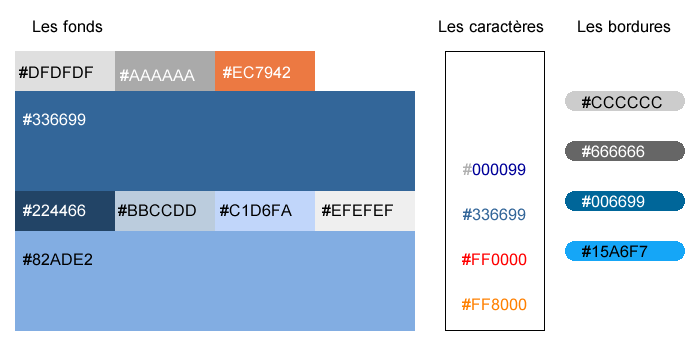
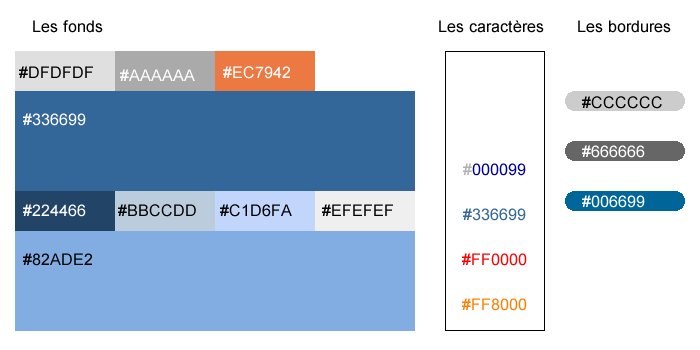
on rajoute le paramétrage des couleurs de bordure
git-svn-id: svn://zone.spip.org/spip-zone/_squelettes_@58697 ac52e18a-acf5-0310-9fe8-c4428f23b10a

Changed region(s): [[0.81, 0.6857, 0.99, 0.7429]]

diff --git a/escal/branche_V3/formulaires/configurer_couleurs.html b/escal/branche_V3/formulaires/configurer_couleurs.html
@@ -334,14 +334,98 @@
             if(isset($_POST["reinit"])) { $bord1="#CCCCCC"; }
             ?>
             <li class="editer editer_[(#GET{name})][ (#GET{obli})][ (#GET{erreurs}|oui)erreur]">
-                    <div class="explication"><strong>Bord 1</strong>:
+                    <div class="explication"><strong>Bord 1</strong>: items du menu horizontal
                     </div>
                     [<span class='erreur_message'>(#GET{erreurs})</span>
                     ]<div class="choix">
                              <input type="texte" class="palette" style="width: 130px" name="#GET{name}" id="#GET{name}_oui" value="<?php echo "$bord1"; ?>"  />
-                             <input type="submit" name="reinit25" class="submit" value="R&eacute;initialiser" />
-                             <span style="font-size: 20px; color:<?php echo "$bord1"; ?>">_____------</span>
-
+                             <input type="submit" name="reinit31" class="submit" value="R&eacute;initialiser" />
+                             <span style="font-size: 20px; color:<?php echo "$bord1"; ?>">&mdash;&mdash;&mdash;&mdash;&mdash;</span>
+                    </div>
+            </li>
+            
+            #SET{name,bord2}#SET{erreurs,#ENV**{erreurs}|table_valeur{#GET{name}}}
+            <?php
+            $bord2="[(#ENV{#GET{name}}|?{#ENV{#GET{name}},#CCCCCC})]";
+            if(isset($_POST["reinit32"])) { $bord1="#CCCCCC"; }
+            if(isset($_POST["reinit"])) { $bord1="#CCCCCC"; }
+            ?>
+            <li class="editer editer_[(#GET{name})][ (#GET{obli})][ (#GET{erreurs}|oui)erreur]">
+                    <div class="explication"><strong>Bord 2</strong>: pages article et rubrique, forums des articles, page contact, annuaire
+                    </div>
+                    [<span class='erreur_message'>(#GET{erreurs})</span>
+                    ]<div class="choix">
+                             <input type="texte" class="palette" style="width: 130px" name="#GET{name}" id="#GET{name}_oui" value="<?php echo "$bord2"; ?>"  />
+                             <input type="submit" name="reinit32" class="submit" value="R&eacute;initialiser" />
+                             <span style="font-size: 20px; color:<?php echo "$bord2"; ?>">&mdash;&mdash;&mdash;&mdash;&mdash;</span>
+                    </div>
+            </li>
+            
+            #SET{name,bord3}#SET{erreurs,#ENV**{erreurs}|table_valeur{#GET{name}}}
+            <?php
+            $bord3="[(#ENV{#GET{name}}|?{#ENV{#GET{name}},#000000})]";
+            if(isset($_POST["reinit33"])) { $bord1="#000000"; }
+            if(isset($_POST["reinit"])) { $bord1="#000000"; }
+            ?>
+            <li class="editer editer_[(#GET{name})][ (#GET{obli})][ (#GET{erreurs}|oui)erreur]">
+                    <div class="explication"><strong>Bord 3</strong>: tableaux
+                    </div>
+                    [<span class='erreur_message'>(#GET{erreurs})</span>
+                    ]<div class="choix">
+                             <input type="texte" class="palette" style="width: 130px" name="#GET{name}" id="#GET{name}_oui" value="<?php echo "$bord3"; ?>"  />
+                             <input type="submit" name="reinit33" class="submit" value="R&eacute;initialiser" />
+                             <span style="font-size: 20px; color:<?php echo "$bord3"; ?>">&mdash;&mdash;&mdash;&mdash;&mdash;</span>
+                    </div>
+            </li>
+            
+            #SET{name,bord4}#SET{erreurs,#ENV**{erreurs}|table_valeur{#GET{name}}}
+            <?php
+            $bord4="[(#ENV{#GET{name}}|?{#ENV{#GET{name}},#FFFFFF})]";
+            if(isset($_POST["reinit34"])) { $bord1="#FFFFFF"; }
+            if(isset($_POST["reinit"])) { $bord1="#FFFFFF"; }
+            ?>
+            <li class="editer editer_[(#GET{name})][ (#GET{obli})][ (#GET{erreurs}|oui)erreur]">
+                    <div class="explication"><strong>Bord 4</strong>: menu vertical d&eacute;roulant vers la droite
+                    </div>
+                    [<span class='erreur_message'>(#GET{erreurs})</span>
+                    ]<div class="choix">
+                             <input type="texte" class="palette" style="width: 130px" name="#GET{name}" id="#GET{name}_oui" value="<?php echo "$bord4"; ?>"  />
+                             <input type="submit" name="reinit34" class="submit" value="R&eacute;initialiser" />
+                             <span style="font-size: 20px; color:<?php echo "$bord4"; ?>">&mdash;&mdash;&mdash;&mdash;&mdash;</span>
+                    </div>
+            </li>
+            
+            #SET{name,bord5}#SET{erreurs,#ENV**{erreurs}|table_valeur{#GET{name}}}
+            <?php
+            $bord5="[(#ENV{#GET{name}}|?{#ENV{#GET{name}},#666666})]";
+            if(isset($_POST["reinit35"])) { $bord1="#666666"; }
+            if(isset($_POST["reinit"])) { $bord1="#666666"; }
+            ?>
+            <li class="editer editer_[(#GET{name})][ (#GET{obli})][ (#GET{erreurs}|oui)erreur]">
+                    <div class="explication"><strong>Bord 5</strong>: identification, items menu horizontal survol&eacute;, calendrier
+                    </div>
+                    [<span class='erreur_message'>(#GET{erreurs})</span>
+                    ]<div class="choix">
+                             <input type="texte" class="palette" style="width: 130px" name="#GET{name}" id="#GET{name}_oui" value="<?php echo "$bord5"; ?>"  />
+                             <input type="submit" name="reinit35" class="submit" value="R&eacute;initialiser" />
+                             <span style="font-size: 20px; color:<?php echo "$bord5"; ?>">&mdash;&mdash;&mdash;&mdash;&mdash;</span>
+                    </div>
+            </li>
+            
+            #SET{name,bord5}#SET{erreurs,#ENV**{erreurs}|table_valeur{#GET{name}}}
+            <?php
+            $bord6="[(#ENV{#GET{name}}|?{#ENV{#GET{name}},#006699})]";
+            if(isset($_POST["reinit36"])) { $bord1="#006699"; }
+            if(isset($_POST["reinit"])) { $bord1="#006699"; }
+            ?>
+            <li class="editer editer_[(#GET{name})][ (#GET{obli})][ (#GET{erreurs}|oui)erreur]">
+                    <div class="explication"><strong>Bord 6</strong>: forum du site
+                    </div>
+                    [<span class='erreur_message'>(#GET{erreurs})</span>
+                    ]<div class="choix">
+                             <input type="texte" class="palette" style="width: 130px" name="#GET{name}" id="#GET{name}_oui" value="<?php echo "$bord6"; ?>"  />
+                             <input type="submit" name="reinit36" class="submit" value="R&eacute;initialiser" />
+                             <span style="font-size: 20px; color:<?php echo "$bord6"; ?>">&mdash;&mdash;&mdash;&mdash;&mdash;</span>
                     </div>
             </li>
     </ul>
